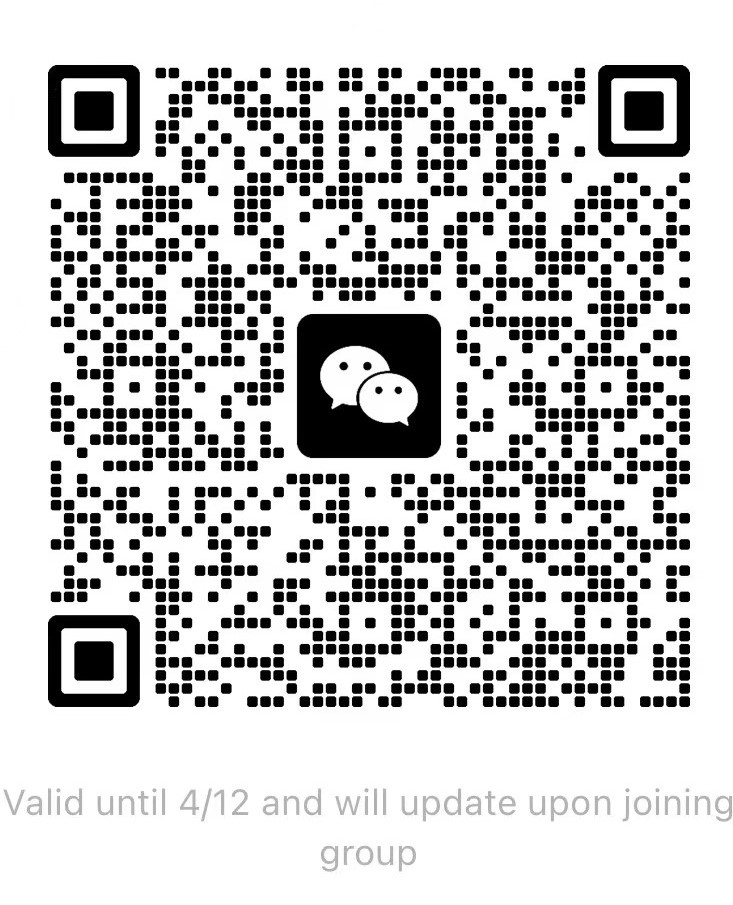
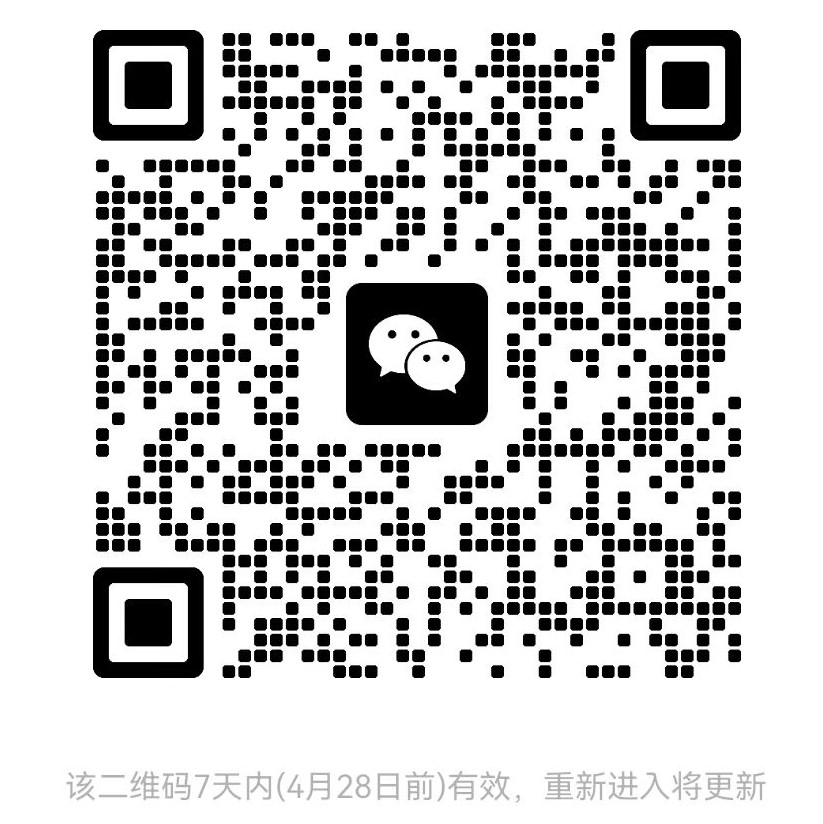
feat: qrcode替换

diff --git a/src/background.ts b/src/background.ts
@@ -55,13 +55,15 @@ async function createWindow() {
   }
 
   win.on("close", (e) => {
-    e.preventDefault(); // 阻止退出程序
-    new Notification({
-      title: "WxBotClient已缩小到托盘",
-      body: "彻底关闭软件请在任务栏右键关闭",
-    }).show();
-    win.setSkipTaskbar(true); // 取消任务栏显示
-    win.hide(); // 隐藏主程序窗口
+    // e.preventDefault(); // 阻止退出程序
+    // new Notification({
+    //   title: "WxBotClient已缩小到托盘",
+    //   body: "彻底关闭软件请在任务栏右键关闭",
+    // }).show();
+    // win.setSkipTaskbar(true); // 取消任务栏显示
+    // win.hide(); // 隐藏主程序窗口
+    win.destroy();
+    app.quit();
   });
 
   // 创建任务栏图标

diff --git a/src/bot/onMessage.ts b/src/bot/onMessage.ts
@@ -97,7 +97,7 @@ const startAI = async (
               await message.say(
                 `@${
                   message.talker()?.payload?.name
-                } 回复长度超长，微信最大支持1500字回复，请重新提问并限制回复长度`
+                } 回复长度超长，微信最大支持1500字回复，请重新提问并限制回复长度，或者直接使用我的网页版分身 http://chat.bb2ff.top`
               );
               return;
             }
